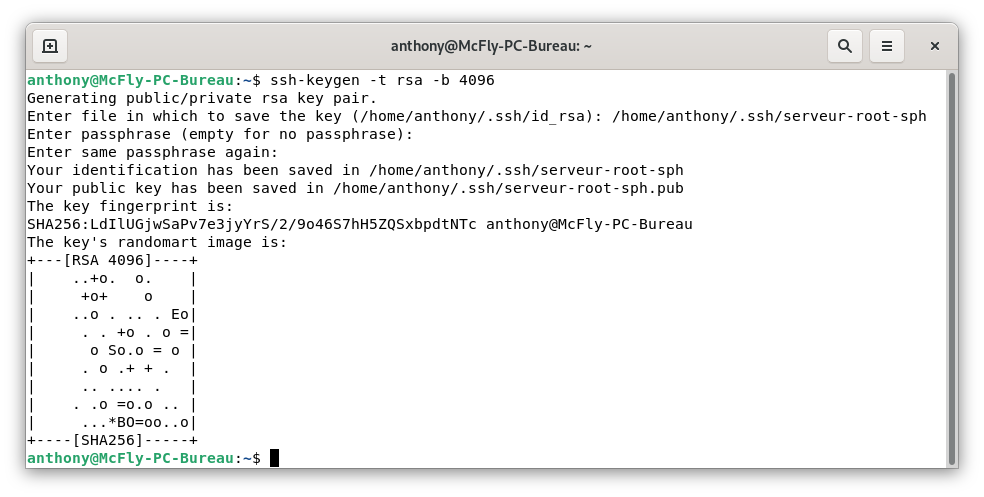
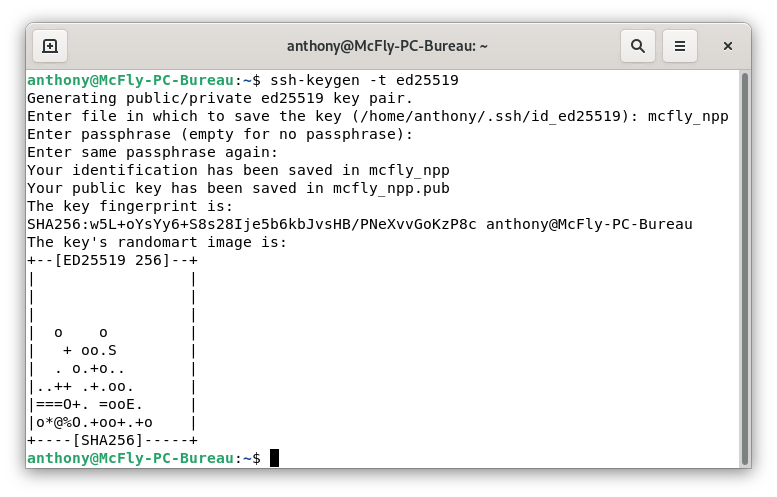
Update article with ED25519

Changed region(s): [[0.0, 0.0604, 0.9884, 0.9356], [0.3707, 0.0604, 0.6178, 0.1207]]

diff --git a/content/articles/ssh_securiser_connexion/index.md b/content/articles/ssh_securiser_connexion/index.md
@@ -31,11 +31,14 @@ Nous ne sommes pas tous ingénieurs en sécurité informatique, mais il y a quan
 Nous allons voir ensemble quelques manipulations simples rendant les attaques plus compliquées.
 
 ## Les différents types de clé.
-Il existe plusieurs types de clés asymétriques, mais les plus connues sont RSA et DSA.
+Il existe plusieurs types de clés asymétriques, mais les plus connues sont RSA, ECDSA, ED25519 et DSA.
+* [DSA](https://fr.wikipedia.org/wiki/Digital_Signature_Algorithm) est plus récent et se voulait être une alternative au RSA (qui à l'époque était breveté). Il serait plus rapide, mais n'est plus supporté depuis openssh v7.
 * [RSA](https://fr.wikipedia.org/wiki/Chiffrement_RSA) est le premier type de clé à être sorti et connait plusieurs versions.
-* [DSA](https://fr.wikipedia.org/wiki/Digital_Signature_Algorithm) est plus récent et se voulait être une alternative au RSA (qui à l'époque était breveté). Il serait plus rapide.
+* [ECDSA](https://fr.wikipedia.org/wiki/Elliptic_curve_digital_signature_algorithm) : Longueurs de clés plus courtes et des opérations de signature et de chiffrement plus rapides, mais semble bénéficier d'une Backdoor US. **conseillé par l'ANSSI**
+* [ED25519](https://fr.wikipedia.org/wiki/EdDSA) : Semble être le nouveau format dans le monde de la cybersécurité longueurs de clés  de 256 bits et des opérations de signature et de chiffrement plus rapides.
 
-Pour ma part, j'utilise le RSA.
+
+Pour ma part, j'utilise le ED25519 car j'utilise que des distributions récentes.
 
 ## Principe simple.
 * Vous générez une clé publique et une privée.
@@ -51,7 +54,7 @@ Il peut vous demander de saisir la passphrase si vous en avez choisi une lors de
 ## Générer sa paire de clés.
 Pour créer une paire de clés, sur votre ordinateur (Linux de préférence).
 * Ouvrir un terminal,
-* Lancer la commande `ssh-keygen -t rsa -b 4096`
+* Lancer la commande `ssh-keygen -t t ed25519`
 
 {{< alert "Par défaut vos clés sont dans `~/.ssh/votre_cle` pour la clé privée et `~/.ssh/votre_cle.pub` pour la clé publique." info >}}
 
@@ -66,9 +69,11 @@ Aprés avoir affiché les dossiers cachés, regarder dans le dossier `.ssh`.
 ### Depuis votre ordinateur.
 `ssh-copy-id -i ~/.ssh/votre_cle.pub -p num_port user@ndd_ou_ip_du_serveur`
 
-{{< alert "Si vous vous êtes déjjà connecté au serveur via SSH, il risque de vous mettre un avertissement, il suffit de taper la commande qu'il vous donne `ssh-keygen -f /home/anthony/.ssh/known_hosts -R XXX.XXX.XXX.XXX`" warning >}}
+{{< alert "Si vous vous êtes déjà connecté au serveur via SSH, il risque de vous mettre un avertissement, il suffit de taper la commande qu'il vous donne `ssh-keygen -f /home/anthony/.ssh/known_hosts -R XXX.XXX.XXX.XXX`" warning >}}
 
 ![Envoi de la clé SSH sur le serveur](img/envoi_cle-ssh_vers_serveur.png)
+
+{{< alert "Si vous essayez d'envoyer la clé d'un utilisateur qui ne peut se connecter en SSH, il faut passer par un compte autorisé puis se connecter a son utilisateur (`su votre_suer`), aller dans son dossier (`cd ~/`) pour créer un dossier `.ssh` (`mkdir .ssh`) et ajouter le fichier `authorized_keys` (`nano authorized_keys`) dans lequel vous devez copier la clé **publique** manuellement " info >}}
 
 ### Modifier les paramètres SSH.
 * Connecter vous en SSH sur votre serveur `ssh -p num_port user@ndd_ou_ip_du_serveur` (`-p` est optionnel, si vous avez changé le port SSH par défaut),
@@ -89,9 +94,13 @@ Si vous avez mis une passphrase lors de la génération, il vous demande de la s
 
 Vous voilà maintenant connecté de manière plus sécurisée.
 
-## Allez plus loin.
+## Allez plus loin avec le fichier `sshd_config`.
 Il est possible de sécuriser encore plus votre serveur par quelques réglages supplémentaires.
 
+Vérifier que cette ligne apparaisse en non commenté. (adapter en fonction du type de clé choisie)
+```
+HostKey /etc/ssh/ssh_host_ed25519_key
+```
 ### Désactiver la connexion par mot de passe.
 Pour désactiver la connexion par mot de passe, dans `/etc/ssh/sshd_config`,
 ```
@@ -111,12 +120,8 @@ PermitRootLogin No
 
 Une fois les parametres changés n'oublier pas de sauvegarder et relancer le service `ssh`.
 
+
 ## Conclusion.
 Je ne suis pas un expert en sécurité informatique, se guide est élaboré à base de plusieurs informations glanées sur le net.
 
 Je suis preneur de toutes autres modifications pouvant apporter plus de sécurité.
-
-
-## A voir.
-
-Il y a aussi Ed25519 qui semble etre encore meilleur. A voir.
